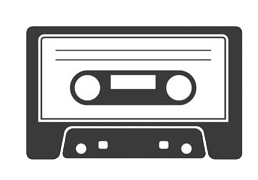
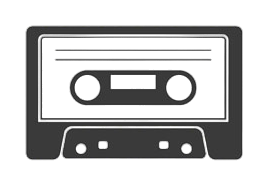
feat: add shadows for some png

diff --git a/songbird/src/pages/quiz-page/quiz-data-instruments.js b/songbird/src/pages/quiz-page/quiz-data-instruments.js
@@ -49,7 +49,58 @@ const instruments = [
       descript: "The cello or violoncello is a bowed (sometimes plucked and occasionally hit) string instrument of the violin family. Its four strings are usually tuned in perfect fifths: from low to high, C2, G2, D3 and A3. The viola's four strings are each an octave higher. Music for the cello is generally written in the bass clef, with tenor clef, or alto clef, and treble clef used for higher-range passages.",
       descriptRU: "Виолонче́ль — смычковый музыкальный инструмент с 4-мя струнами, настроенными по квинтам: Cб Gб Dм Aм. По высоте звучания занимает промежуточное положение между более высоким альтом и низким контрабасом.",
     },
-  ]
+  ],
+  //strings dobble
+  [
+    {
+      name: "guitar",
+      nameRU: "гитара",
+      mp3: require("./../../assets/sounds/guitar.mp3"),
+      png: require("./../../assets/images/guitar.png"),
+      descript: "The guitar is a fretted musical instrument that typically has six strings. It is usually held flat against the player's body and played by strumming or plucking the strings with the dominant hand, while simultaneously pressing selected strings against frets with the fingers of the opposite hand.",
+      descriptRU: "Гитара — это ладовый музыкальный инструмент, который обычно имеет шесть струн. Применяется в качестве аккомпанирующего или сольного инструмента во многих стилях и направлениях музыки, среди которых романс, блюз, кантри, фламенко, рок, джаз. Изобретённая в XX веке электрическая гитара произвела значительные изменения в музыке и тем самым оказала сильное влияние на массовую культуру.",
+    },
+    {
+      name: "balalaika",
+      nameRU: "балалайка",
+      mp3: require("./../../assets/sounds/balalaika.mp3"),
+      png: require("./../../assets/images/balalaika.png"),
+      descript: "The balalaika is a stringed musical instrument with a characteristic triangular wooden, hollow body, fretted neck and three strings. Two strings are usually tuned to the same note and the third string is a perfect fourth higher. The higher-pitched balalaikas are used to play melodies and chords. The instrument generally has a short sustain, necessitating rapid strumming or plucking when it is used to play melodies.",
+      descriptRU: "Балала́йка — русский, белорусский и украинский народный струнный щипковый музыкальный инструмент с треугольной или овальной формы корпусом, имеющий от двух до шести струн. Характерными приёмами звукоизвлечения являются бряцание и тремоло — удары указательным пальцем по всем струнам одновременно.",
+    },
+    {
+      name: "gusli",
+      nameRU: "гусли",
+      mp3: require("./../../assets/sounds/gusli.mp3"),
+      png: require("./../../assets/images/gusli.png"),
+      descript: "The balalaika is a stringed musical instrument with a characteristic triangular wooden, hollow body, fretted neck and three strings. Two strings are usually tuned to the same note and the third string is a perfect fourth higher. The higher-pitched balalaikas are used to play melodies and chords. The instrument generally has a short sustain, necessitating rapid strumming or plucking when it is used to play melodies.",
+      descriptRU: "Гусли — русский народный струнный щипковый музыкальный инструмент, в общем виде представляющий собой резонаторный корпус с натянутыми над ним 5—20 струнами, образующими диатонический звукоряд. Относятся к семейству цитр, гусли с игровым окном — к лирам.",
+    },
+    {
+      name: "harp",
+      nameRU: "арфа",
+      mp3: require("./../../assets/sounds/harp.mp3"),
+      png: require("./../../assets/images/harp.png"),
+      descript: "The harp is a stringed musical instrument that has a number of individual strings running at an angle to its soundboard; the strings are plucked with the fingers. Harps can be made and played in various ways, standing or sitting and in orchestras or concerts. Its most common form is triangular in shape and made of wood. Some have multiple rows of strings and pedal attachments.",
+      descriptRU: "Арфа - струнный щипковый музыкальный инструмент, состоит из двух расположенных под углом рам, между которыми натянуто множество струн. Один из древнейших инструментов, символ Ирландии. В XVIII столетии была изобретена педальная арфа, ставшая стандартом в классической музыке.",
+    },
+    {
+      name: "violin",
+      nameRU: "скрипка",
+      mp3: require("./../../assets/sounds/violin.mp3"),
+      png: require("./../../assets/images/violin.png"),
+      descript: "The violin, sometimes known as a fiddle, is a wooden chordophone (string instrument) in the violin family. Most violins have a hollow wooden body. It is the smallest and thus highest-pitched instrument (soprano) in the family in regular use.",
+      descriptRU: "Скрипка — смычковый музыкальный инструмент с четырьмя струнами, настроенными по квинтам: Gм D1 A1 E2. Самая высокая регистровая разновидность скрипичного семейства, ниже которой располагаются альт, виолончель и контрабас.",
+    },
+    {
+      name: "cello",
+      nameRU: "виолончель",
+      mp3: require("./../../assets/sounds/cello.mp3"),
+      png: require("./../../assets/images/cello.png"),
+      descript: "The cello or violoncello is a bowed (sometimes plucked and occasionally hit) string instrument of the violin family. Its four strings are usually tuned in perfect fifths: from low to high, C2, G2, D3 and A3. The viola's four strings are each an octave higher. Music for the cello is generally written in the bass clef, with tenor clef, or alto clef, and treble clef used for higher-range passages.",
+      descriptRU: "Виолонче́ль — смычковый музыкальный инструмент с 4-мя струнами, настроенными по квинтам: Cб Gб Dм Aм. По высоте звучания занимает промежуточное положение между более высоким альтом и низким контрабасом.",
+    },
+  ],
 ];
 
 export default instruments

diff --git a/songbird/src/pages/quiz-page/quiz-page.js b/songbird/src/pages/quiz-page/quiz-page.js
@@ -45,12 +45,13 @@ function handlerBtnNext() {
   if (isFinish()) {
     alert("finish");
   } else {
+    currentQuestIndex ++;
     updateQuestion();
   }
 };
 
 function checkAnswer(answer, obj) {
-  if (answer == obj.answer) {
+  if (answer == obj.name) {
     return true
   } else {
     return false
@@ -68,31 +69,39 @@ function handlerAnswersInput (e) {
 
   gameInfo.classList.remove("info--masked");
 
-  if (checkAnswer(e.target.parentNode.childNodes[2].data, currentQuest)) {
+  if (checkAnswer(e.target.parentNode.childNodes[2].data, currentQuest[rightAnswerIndex])) {
     // if music play, set pause
     if (playerPlayFirst.classList.contains("player__play--pause")) {
       playerPlayFirst.classList.remove("player__play--pause");
       pauseAudio(0);
     }
 
-    e.target.parentNode.classList.add("game__answer--is-right");
-    btnNext.disabled = false;
-    
-    score += scoreTemp;
-    count.innerText = score;
-    //load quest image
-    imgPlayer.src = currentQuest.png;
-    //update player label
-    playerLabelFirst.innerText = currentQuest.name;
+    if ( ! e.target.parentNode.classList.contains("game__answer--is-right")) {
+      e.target.parentNode.classList.add("game__answer--is-right");
+      btnNext.disabled = false;
+      
+      //update score
+      score += scoreTemp;
+      count.innerText = score;
+
+      //load quest image
+      imgPlayer.src = currentQuest[rightAnswerIndex].png;
+      //update player label
+      playerLabelFirst.innerText = currentQuest[currentQuestIndex].name;
+    }
 
   } else {
-    e.target.parentNode.classList.add("game__answer--is-wrong");
-    scoreTemp -= 1;
+    //check for repeat incorrect answer
+    if (! e.target.parentNode.classList.contains("game__answer--is-wrong")) {
+      e.target.parentNode.classList.add("game__answer--is-wrong");
+      scoreTemp -= 1;
+    }
+    
   }
 }
 
 function isFinish() {
-    if ((currentQuestIndex) == songs[subCat].length) {
+    if ((currentQuestIndex) == currentQuest.length) {
         return true
     } else return false
 }

diff --git a/songbird/src/pages/start-page/start-page.scss b/songbird/src/pages/start-page/start-page.scss
@@ -102,6 +102,9 @@
     &__image {
         max-width: 100%;
         object-fit: contain;
+        background-color: unset;
+        
+        
         
         // &:nth-child(1) {
         //     top: -5%;
@@ -226,6 +229,8 @@
     &__image {
         height: 120px;
         object-fit: contain;
+        background-color: unset;
+        filter: drop-shadow(5px 0px 5px var(--drop-shadow-color));
     }
 
     &__description {
@@ -313,6 +318,8 @@
       max-width: 100%;
       max-height: 400px;
       object-fit: contain;
+      background-color: unset;
+
       @media (max-width: 820px) {
         opacity: 0;
         max-height: 55vw;
@@ -382,7 +389,7 @@
       flex: 1 1 60%;
       display: flex;
       justify-content: end;
-      
+
       &:last-child {
         justify-content: center;
         order: 1;
@@ -402,7 +409,8 @@
     max-width: 100%;
     max-height: 400px;
     object-fit: contain;
-    
+    background-color: unset;
+    filter: drop-shadow(5px 0px 5px var(--drop-shadow-color));
   }
 }
 
@@ -422,6 +430,7 @@
       background-repeat: no-repeat;
       background-color: transparent;
       background-position: 0 center;
+      filter: drop-shadow(1px 0px 5px var(--drop-shadow-color));
       
       font-size: 1.5rem;
       text-decoration: none;
@@ -486,7 +495,7 @@
         left: 0;
         bottom: -10px;
         height: 2px;
-        background-color: (--primary-accent-color);
+        background-color: var(--primary-accent-color);
         transition: width 0.3s ease 0s;
       }
 

diff --git a/songbird/src/pages/quiz-page/quiz-page.scss b/songbird/src/pages/quiz-page/quiz-page.scss
@@ -295,8 +295,9 @@
       }
 
       &:hover {
-        background-color: var(--shadow-light-color);
+        // background-color: var(--shadow-light-color);
         // color: var(--primary-bg-color);
+        box-shadow: 0 0 0 var(--shadow-light-color);
       }
 
       &--is-right {
@@ -313,7 +314,8 @@
       width: 50px;
       height: 50px;
       object-fit: contain;
-      background-color: inherit;
+      background-color: unset;
+
     }
     &__input {
       opacity: 0;

diff --git a/songbird/src/components/player/player.js b/songbird/src/components/player/player.js
@@ -28,7 +28,6 @@ btnPlay[1].addEventListener("click", () => handlerBtnPlay(1));
 
 
 function load(obj) {
-  console.log(obj.mp3);
   audio[0].src = obj.mp3;
   audio[1].src = obj.mp3;
 }
